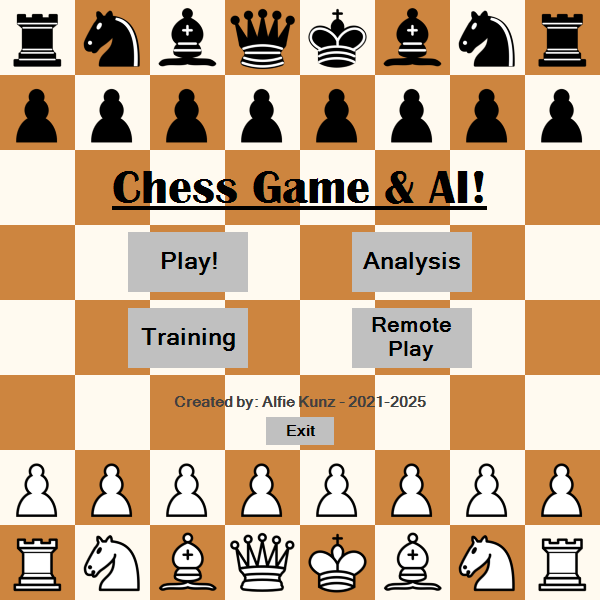
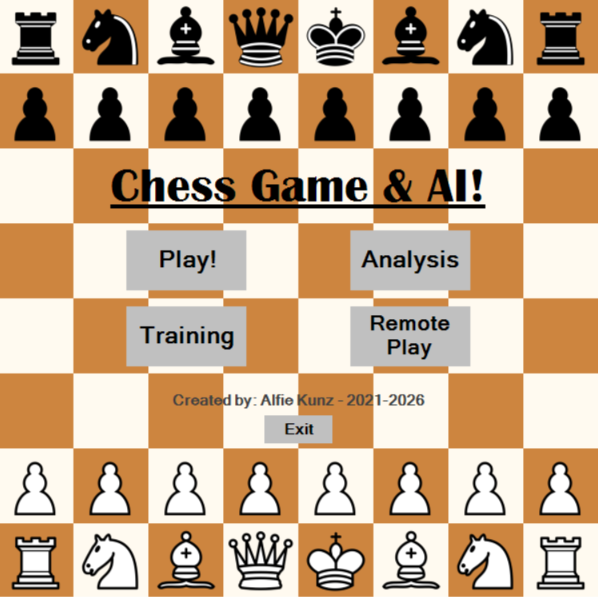
Updated README

Changed region(s): [[0.0, 0.0, 1.0, 1.0], [0.602, 0.4221, 0.7826, 0.4523], [0.4816, 0.603, 0.5117, 0.6332]]

diff --git a/README.md b/README.md
@@ -7,11 +7,11 @@
 
 ---
 
-v10.0 of my commercial-quality **Chess AI Project**, originally for my A-Level Computer Science NEA (which my supervisor called the "best he had ever seen" in his years of teaching), for which I was awarded 100%. This features a strong Artificial Intelligence (built upon a highly-optimised, original NegaMax algorithm), created around a sophisticated chess-playing interface, packed to the brim with classic and original ideas alike.
+v11.0 of my commercial-quality **Chess AI Project**, originally for my A-Level Computer Science NEA (which my supervisor called the "best he had ever seen" in his years of teaching), for which I was awarded 100%. This features a strong Artificial Intelligence (built upon a highly-optimised, original NegaMax algorithm), created around a sophisticated chess-playing interface, packed to the brim with classic and original ideas alike.
 > **Online Rating:** ~2850 ELO (Lichess).  
 **Puzzle Rating:** ~3125 ELO (hand-crafted database from Lichess).
 
-This project forms the backbone of other hand-crafted work, including an [**Opening Book Builder**](https://github.com/AlfieKunz/Chess-Book-Builder), a [**Swiss-Style Benchmarking System**](https://github.com/AlfieKunz/Chess-Tournament), and a [**'Fancy Magic' Number Generator**](https://github.com/AlfieKunz/Chess-Magic).
+This project forms the backbone of other hand-crafted work, including an [**Opening Book Builder**](https://github.com/AlfieKunz/Chess-Book-Builder), a [**Swiss-Style Benchmarking System**](https://github.com/AlfieKunz/Chess-Tournament), and a theoretically optimal [**'Fancy Magic' Number Generator**](https://github.com/AlfieKunz/Chess-Magic).
 
 This work is self-motivated and self-funded, and is written primarily in VB.NET as a Visual Studio WinForms application.
 
@@ -23,65 +23,77 @@ This work is self-motivated and self-funded, and is written primarily in VB.NET 
 
 ## Features and Highlights
 
+### AI Engine Features
+✅ Fully covers the legal moves of chess, including castling, en passant (including the rare en passant pin), moves in check, and choice of promotion.  
+✅ Full bitboard architecture, using a UInt64 per piece type, and 6-bit 0-63 square indices (for InCheck, Move, KingPos, and EnPassant). Delivers a ~5x Perft speed increase, over previous 2D Char arrays and (x,y) coordinates.  
+✅ Heavily optimised Move Generation via pre-computed and hand-crafted [**'Fancy Magic' bitboards**](https://github.com/AlfieKunz/Chess-Magic) for sliding pieces, and bit-shifting for other pieces. Magic numbers are pre-tuned to be 87.5% set sparse and >5-bit set, and achieve the theoretical optimal size of 841KB. Achieves up to ~220MNps on the starting positions, on a single-thread laptop processor (Intel i5-12500H, bulk counting).  
+✅ Full pre-computation and storing of all piece's pseudo-legal moves in the BitMove format (with injected flags).  
+✅ Pins / checks / king moves integrated directly into pseudo-legal generation, through a novel method I call 'TFTables', a set of three UInt64 values: legal king moves mask (with x-ray masking), diagonal & straight pin masks (using king ray-casting). Hence, a pinned piece's movement is efficiently restricted by simply ANDing with the legal moves of a bishop / rook placed on the king's square.  
+✅ Pre-computed 'DangerMaps' for every piece, giving instant calculations of whether a piece can influence a king, and thus how to efficiently generate TFTable.  
+✅ Addition of RayMap data, returning the squares exposed between any two squares. Allows for powerful pin detection, check evasion, and castling-rule enforcement.  
+✅ Discards illegal moves (or non-quiet moves in Quiscence) at generation time, minimising waste and buffer space.  
+✅ Lightweight move generation and inputting in Perft / node testing, for faster searching.  
+✅ NegaMax search backbone, with Alpha-Beta Pruning.  
+✅ Principal Variation Search (PVS).  
+✅ Iterative Deepening, with adaptive starting depth based on the current position details.  
+✅ Quiescence Search, which includes non-capture queen promotions (and drops capture promotions to knights).  
+✅ Delta Pruning.  
+✅ Transposition Table via Zobrist Hashing ('deep' replacement scheme with TTL attribute): retained across searches and moves. 1GB size with compact entries for fast indexing and minimised collisions, despite fast move generation.  
+✅ Advanced draw detection: threefold repetition (correct with or without the Transposition Table enabled), 50-move rule, and the full range of insufficient material (using dampened evaluation gradients), integrated directly into both the AI's search tree and the UI game state.  
+✅ Search Extensions, and Late Move Reductions (applied to quiet moves only, never when in check, dynamic according to the Transposition Table).  
+✅ Internal Iterative Reductions (IIR).  
+✅ Null Move Pruning, with narrow StandPat windows and adaptable Zugzwang detection.  
+✅ Dynamic Aspiration Windows.  
+✅ Detailed search diagnostics: node counts, leaf-node counts, position-collision tracking, and the first-move beta-cutoff rate (a direct measure of move-ordering quality).  
+✅ Extensively tuned, tiered move-ordering system, refactored into a clean bucketing structure (with an advanced system for the base position), using techniques such as MVV-LVA, Killer Moves, Transposition-Table-aware ordering, trades vs. open captures, near-promotions, moves closing in on the enemy king, moves giving check, contested squares (especially by enemy pawns), and static exchange evaluation.  
+✅ Quiet moves further ordered by the History heuristic, featuring insertion-sort bonus ordering, malus bucketing, and gravity.  
+✅ Sophisticated pre-computed-driven evaluation function, involving hashed material count lookup, hand-crafted (aggressive) PieceHeatMaps (that adapt to the game phase and adjust 'on the fly' as pieces are traded), pawn bitboards (for quick identification of passed, isolated, or doubled pawns), king endgame heuristic (encouraging well-known mating patterns and hindering opposing king movement). All lookup structures (MVV-LVA, Zobrist, PieceHeatMaps, Endgame table) are flattened for a ~35% speed boost.  
+✅ Beginner-friendly difficulty scaling using probabilistic blunders, sampling sub-optimal moves from a Boltzmann distribution over the candidate moves using the Gumbel-max trick.  
+✅ Realistic AI search time mode, that mimics human-like behaviours when playing online: adapts to the complexity of the position, number of forced moves, pre-moves and book-moves, the AI's previous search information (eg: a recently broken aspiration window), win sequences found, and the estimated strength of the opponent.  
+✅ Large, hand-crafted Opening Book, built from millions of high-level games, with weighted-random move selection so more common, well-tested moves are favoured.  
+✅ AI autonomy: the engine handles its own check states, TFTable construction, invalid-position handling, and Move to PGN conversion, with PGN best lines generated at speed directly from bitboards (and with ambiguity in the best-move line eliminated).  
+✅ Modular search design: most AI features are completely modifiable via the AISettings class, allowing for a customised playing experience, easy tweaking and A/B testing in Analysis Mode, and easy resetting to hand-tuned default values.  
+
+
 ### Interface, Controls & Game Experience
 ✅ Drag & drop, and click & move functionality for pieces.  
-✅ Allows for inputting of positions (FEN) or moves in the current position (PGN move, full Lichess game, etc), dynamically choosing between them, and heavily robust validation & parsing (eg: estimating missing data). Invalid inputs flagged as such, with descriptive error messages.  
+✅ Allows for inputting of positions (FEN) or moves in the current position (PGN move, full Lichess game, etc), dynamically choosing between them, and heavily robust validation & parsing (eg: estimating missing data, correctly handling FENs whose first rank isn't fully filled, and hardened PGN move parsing). Invalid inputs flagged as such, with descriptive error messages.  
 ✅ Board highlights for legal-move highlighting, previous moves, and check highlighting.  
 ✅ Piece animations (move making) and board animations (morphing between positions: uses bespoke greedy neighbour matching algorithm).  
 ✅ Ability to flip the board for each player's perspective (+ auto-flipping support).  
 ✅ Colourful, intuitive board GUI that adapts dramatically to each game mode. Displays extra information such as live search timings (with the updating AI current move info).  
 ✅ Animated boot sequence on the main menu.  
-✅ In-depth, interactable settings form, for controls such as board colour scheme, piece animation speed, toggling highlights, fixed-depth AI searching, 'blindfold' mode, touch-move, etc. Settings persist across sessions, with robust fallback support.  
+✅ In-depth, interactable settings form, for controls such as board colour scheme, piece animation speed, toggling highlights, fixed-depth AI searching, 'blindfold' mode, touch-move, etc. Settings persist across sessions, with robust fallback support: missing or reset user assets are automatically re-created, and all changes to AI settings are error-handled.  
 ✅ Full range of sounds for each move, startup, training mode responses, and game termination.  
 ✅ Credits panel, displaying persisted lifetime AI statistics.  
 
 
-### AI Engine Features
-✅ Fully covers the legal moves of chess, including castling, moves in check, and choice of promotion.  
-✅ Optimised Move Generation, via heavily optimised Bitboards and BitMoves, precomputed lookup tables, and pins / checks / king moves integrated directly into pseudo-legal generation, through a novel method I call 'TFTables'.  
-✅ Large, hand-crafted Opening Book, built from millions of high-level games, with weighted-random move selection so more common, well-tested moves are favoured.  
-✅ NegaMax search backbone, with Alpha-Beta Pruning.  
-✅ Principal Variation Search (PVS).  
-✅ Iterative Deepening, with adaptive starting depth based on the current position details.  
-✅ Quiescence Search.  
-✅ Delta Pruning.  
-✅ Transposition Table via Zobrist Hashing ('deep' replacement scheme with TTL attribute): retained across searches and moves.  
-✅ Advanced draw detection: threefold repetition (correct with or without the Transposition Table enabled) and the 50-move rule, integrated directly into both the AI's search tree and the UI game state.  
-✅ Search Extensions, and Late Move Reductions.  
-✅ Internal Iterative Reductions (IIR).  
-✅ Null Move Pruning, with narrow StandPat windows and adaptable Zugzwang detection.  
-✅ Dynamic Aspiration Windows.  
-✅ Detailed search diagnostics: node counts, leaf-node counts, and position-collision tracking.  
-✅ Extensively tuned, tiered move-ordering system (with an advanced system for the base position), using techniques such as MVV-LVA, Killer Moves, Transposition-Table-aware ordering, trades vs. open captures, near-promotions, moves closing in on the enemy king, moves giving check, contested squares (especially by enemy pawns), and static exchange evaluation.  
-✅ Sophisticated pre-computed-driven evaluation function, involving hashed material count lookup, hand-crafted (aggressive) PieceHeatMaps (that adapt to the game phase and adjust 'on the fly' as pieces are traded), pawn bitboards (for quick identification of passed, isolated, or doubled pawns), king endgame heuristic (encouraging well-known mating patterns and hindering opposing king movement).  
-✅ Realistic AI search time mode, that mimics human-like behaviours when playing online: adapts to the complexity of the position, number of forced moves, pre-moves and book-moves, the AI's previous search information (eg: a recently broken aspiration window), win sequences found, and the estimated strength of the opponent.  
-
-
 ### Game Modes
-✅ One-Player Mode: play against the AI at a range of pre-coded strengths and behavioural styles.  
+✅ One-Player Mode: play against the AI at a range of pre-coded strengths and behavioural styles, from depth-limited, blunder-prone beginners up to the full-strength engine.  
 ✅ Two-Player Mode: local PvP, with customisable starting positions.  
-✅ Analysis Mode: a sandbox for inputting, studying, and extracting full sequences of moves, returning detailed computer analysis (evaluation, best-path, and deep node testing), and in-depth adjustment of AI strength & search time. Also contains extra features such as 'endless AI' mode, board editor (for quick editing of the position, by freely dragging pieces around or spawning new pieces, with robust illegal placement detection), and perft-style node testing.  
+✅ Analysis Mode: a sandbox for inputting, studying, and extracting full sequences of moves, returning detailed computer analysis (evaluation, best-path, and deep node testing), and in-depth adjustment of AI strength & search time. Also contains extra features such as 'endless AI' mode, board editor (for quick editing of the position, by freely dragging pieces around or spawning new pieces, with robust illegal placement detection), and perft-style node testing (now ~5x faster).  
 ✅ Puzzle Mode: solve (or give the AI to solve) over 2 million rated positions (with an 'extra hard' set). Live AI evaluation, and an optional timed 'puzzle rush' mode. Individually tracked ELO rating system (using exponential rating change weighted by puzzle rating) that persists over time.   
-✅ Training Modes: Coordinate or Move time-based drills, for square-recognition or algebraic-notation recall against random legal moves in random positions. Persistent leaderboards for each side.  
-✅ Remote Mode: locates any external chess interface (eg: lichess, chess.com) visible on the screen via computer-vision screen-reading (no matter the size, position, theme, or monitor), and connects to it by mapping all the squares and pieces to its internal structure. From here, the interface continuously tracks all moves made on the interface, then allows either the user or the AI to make their response (on my chess GUI), which is then made on the external interface by controlling the mouse. Well-handled for poor data: error tolerances, quick & deep hybrid row scans, greyscale colour switching for locating the external board, estimating promotion pieces based on available data, remote and user move verification, etc. Purpose-built for benchmarking the AI's real-world strength against other engines, on sites such as Lichess.  
+✅ Training Modes: Coordinate or Move time-based drills, for square-recognition or algebraic-notation recall against random legal moves in random positions (with hardened move-generation loop). Persistent leaderboards for each side.  
+✅ Remote Mode: locates any external chess interface (eg: lichess, chess.com) visible on the screen via computer-vision screen-reading (no matter the size, position, theme, or monitor), and connects to it by mapping all the squares and pieces to its internal structure. From here, the interface continuously tracks all moves made on the interface, then allows either the user or the AI to make their response (on my chess GUI), which is then made on the external interface by controlling the mouse. Well-handled for poor data: error tolerances, quick & deep hybrid row scans, greyscale colour switching for locating the external board, estimating promotion pieces based on available data, remote and user move verification, correct DPI scaling, etc. Purpose-built for benchmarking the AI's real-world strength against other engines, on sites such as Lichess.  
 
 
 ### Quality of Life, and Code Profiling
-✅ Colourful, information-dense console window containing board states, live AI search and move information, colour-coded evaluation, and debug information for each game mode.  
+✅ Colourful, information-dense console window containing board states, live AI search and move information (in either a detailed or condensed view), colour-coded evaluation, and debug information for each game mode.  
 ✅ Custom cursor states (macOS-style "open hand") on sliders and pieces for drag & drop.  
-✅ Support for undoing moves, and copying or exporting of current FEN / PGN.  
+✅ Support for undoing moves (with audio feedback), and copying or exporting of current FEN / PGN.  
 ✅ Lazy-loaded database entries: only key information of puzzle & opening book entries are parsed on boot-up, with full detail computed on demand. The user can also choose a smaller opening book, if preferred.  
 ✅ Adaptive, dynamic program title reflecting the current game state.  
-✅ Correct handling of multi-monitor setups and High-DPI displays.  
+✅ Correct handling of multi-monitor setups and High-DPI displays (including inside Remote Mode).  
 ✅ External tool compatibility: creation of novel tools and controls for the optimisation of this project, such as a Version Comparer to allow different AIs to compete against each other, or the hand-picked opening book.  
-✅ Grounded in code profiling and managing garbage collection: latency tuning, live Transposition Table memory management, and handling of deep searches.  
+✅ Grounded in code profiling and managing garbage collection: latency tuning, Server GC management, live Transposition Table memory management, and handling of deep searches.  
+✅ Compiler-level performance work: Release-mode builds (a ~6x speed boost), tuned compiler settings, Option Strict On throughout the AI files, and vast use of 'Const' values for faster reads.  
 ✅ Use of multithreading to allow both GUI control and AI searching.  
 
 ---
 
 ## Project Showcase
 
-> **Project Demo:** You can see this project live directly through the [**v10.0 release**](https://drive.google.com/open?id=1sIJN5SI466Z6pHWhx42FbaHb7Ml4dm82) (64-bit). Simply click the 'Download All' button in the link attached, unzip and run the "Chess AI.exe" application. All instructions of use are provided throughout.
+> **Project Demo:** You can see this project live directly through the [**v11.0 release**](https://drive.google.com/open?id=1sIJN5SI466Z6pHWhx42FbaHb7Ml4dm82) (64-bit). Simply click the 'Download All' button in the link attached, unzip and run the "Chess AI.exe" application. All instructions of use are provided throughout.
 
 Alternatively, one can download the source code, as instructed below, for full control.
 
@@ -148,11 +160,11 @@ Chess AI
 │  ├─ AI.vb                                             // Main Chess AI code, built about the NegaMax algorithm with Alpha-Beta Pruning, and interactions with the main chess environment
 │  ├─ AILookupTables.vb                                 // List of PieceHeatMaps, Endgame Lookup table, and pawn bonus tables
 │  ├─ bin                                               //
-│  │  └─ Debug                                          //
+│  │  └─ Release                                        //
 │  │     └─ net8.0-windows                              //
 │  │        ├─ Assets                                   //
-│  │        │  ├─ Chess960 FENs.txt                     // List of all possible Chess960 starting positions.
 │  │        │  ├─ Images                                // Pictures of each chess piece, with room for extra themes
+│  │        │  ├─ MagicData.bin                         // Full pre-computed fancy magic bitboard generation data, including Movement Masks, sparse Magic Numbers, Shift Values, and Move Arrays
 │  │        │  ├─ LargeOpeningBook.txt                  // A bespoke list of over 530,000 opening chess positions, and their expert-recommended moves
 │  │        │  ├─ Puzzle Database                       // List of over 2 million puzzle FENs (and their moves), sorted by rating into 8 equal buckets (only 1 loaded per session to save time), and a small set of the highest-rated puzzles 
 │  │        │  ├─ RandomFENs.txt                        // 10,000 chess positions taken from random online games, for use in Move Training mode.
@@ -202,15 +214,15 @@ Chess AI
 This work is self-motivated and self-funded. If you use this code or data in your work, please cite the associated preprint:
 
 **Text Citation:**
-> Kunz, A. (2025). *Chess Game & Artificial Intelligence (Version 10.0)*. Available at https://github.com/AlfieKunz/Chess-Game-AI.
+> Kunz, A. (2026). *Chess Game & Artificial Intelligence (Version 11.0)*. Available at https://github.com/AlfieKunz/Chess-Game-AI.
 
 **BibTeX:**
 ```bibtex
 @software{Kunz2025Chess,
   title = {Chess Game & Artificial Intelligence},
   author = {Kunz, Alfie},
-  version = {v10.0},
-  year = {2025},
+  version = {v11.0},
+  year = {2026},
   url = {https://github.com/AlfieKunz/Chess-Game-AI}
 }
 ```
